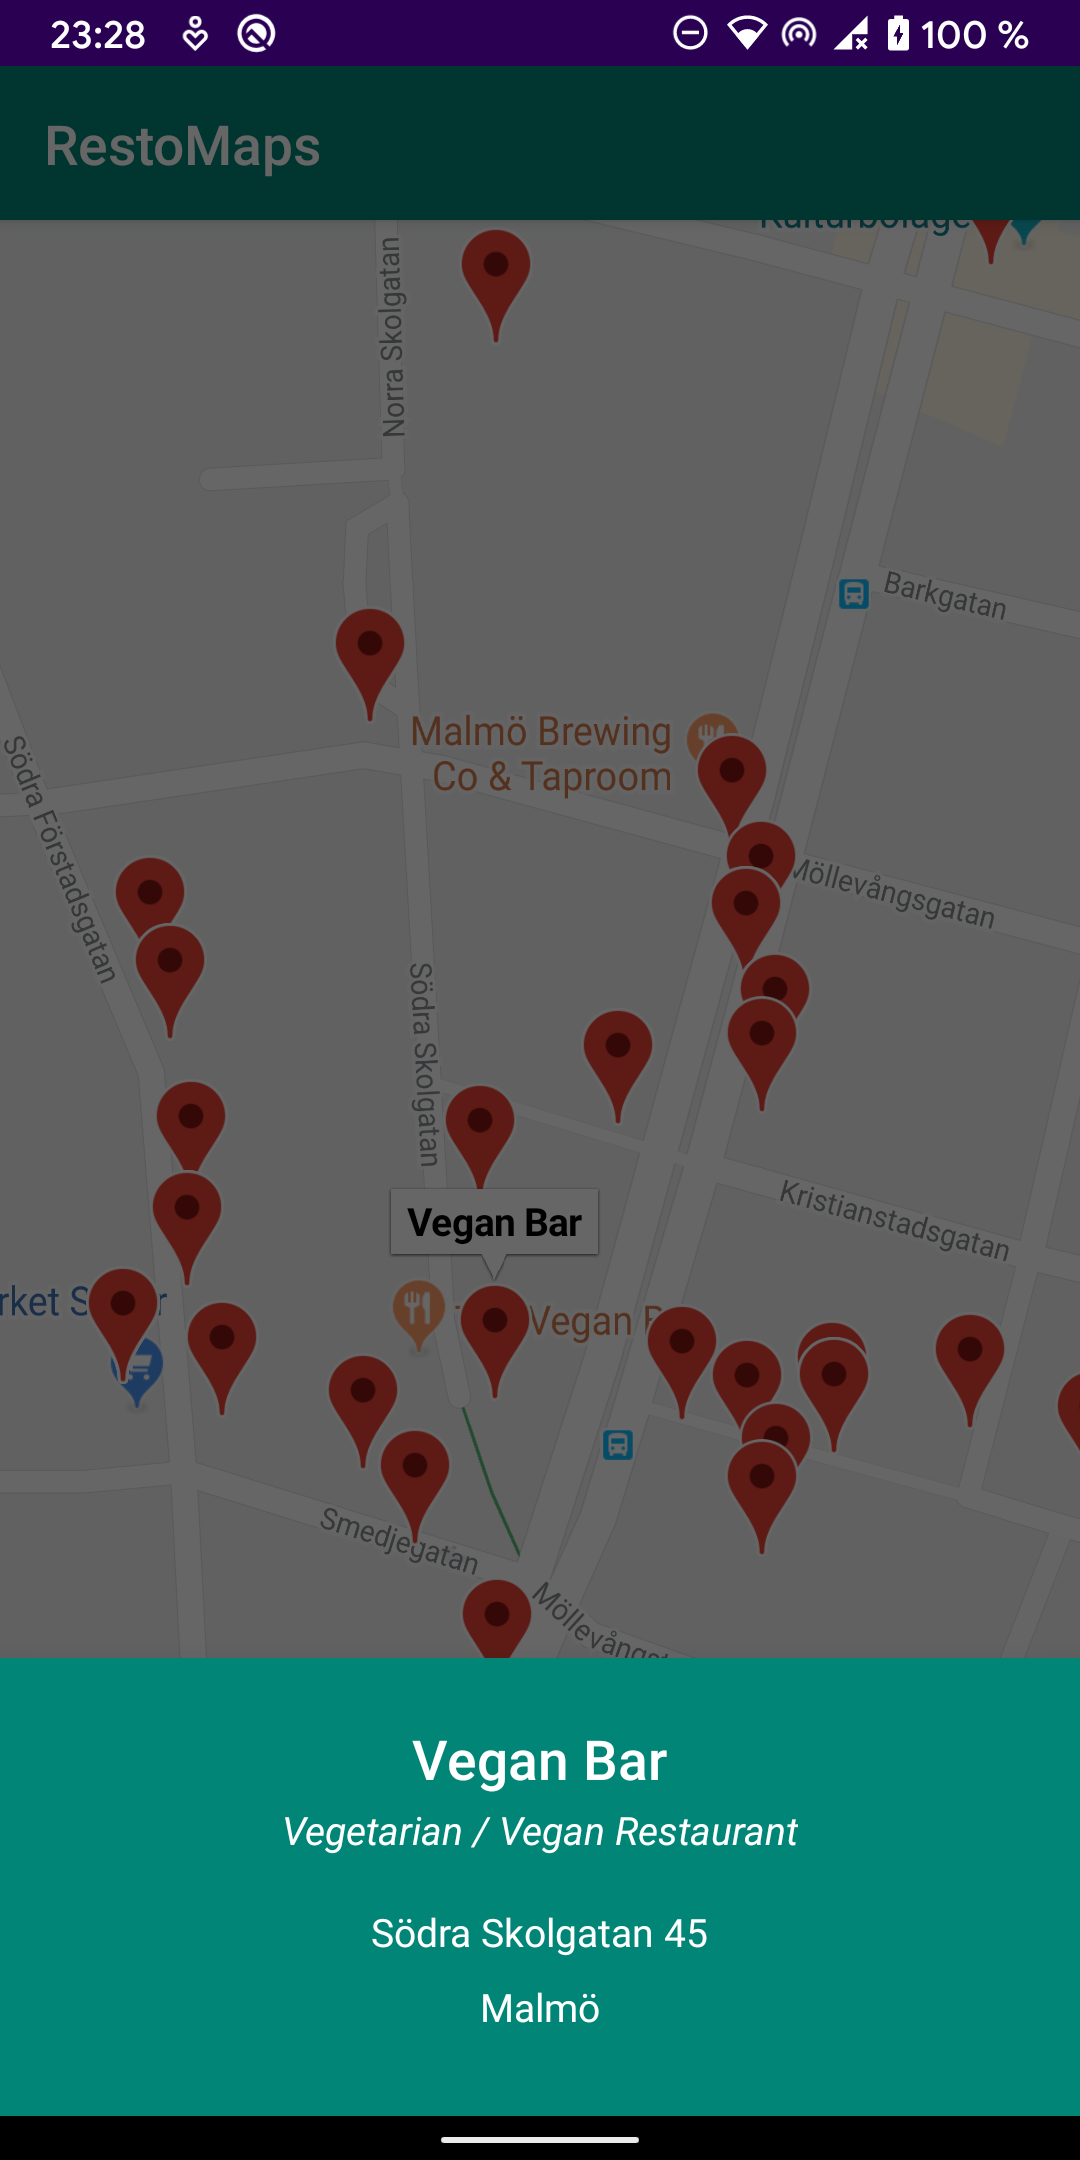
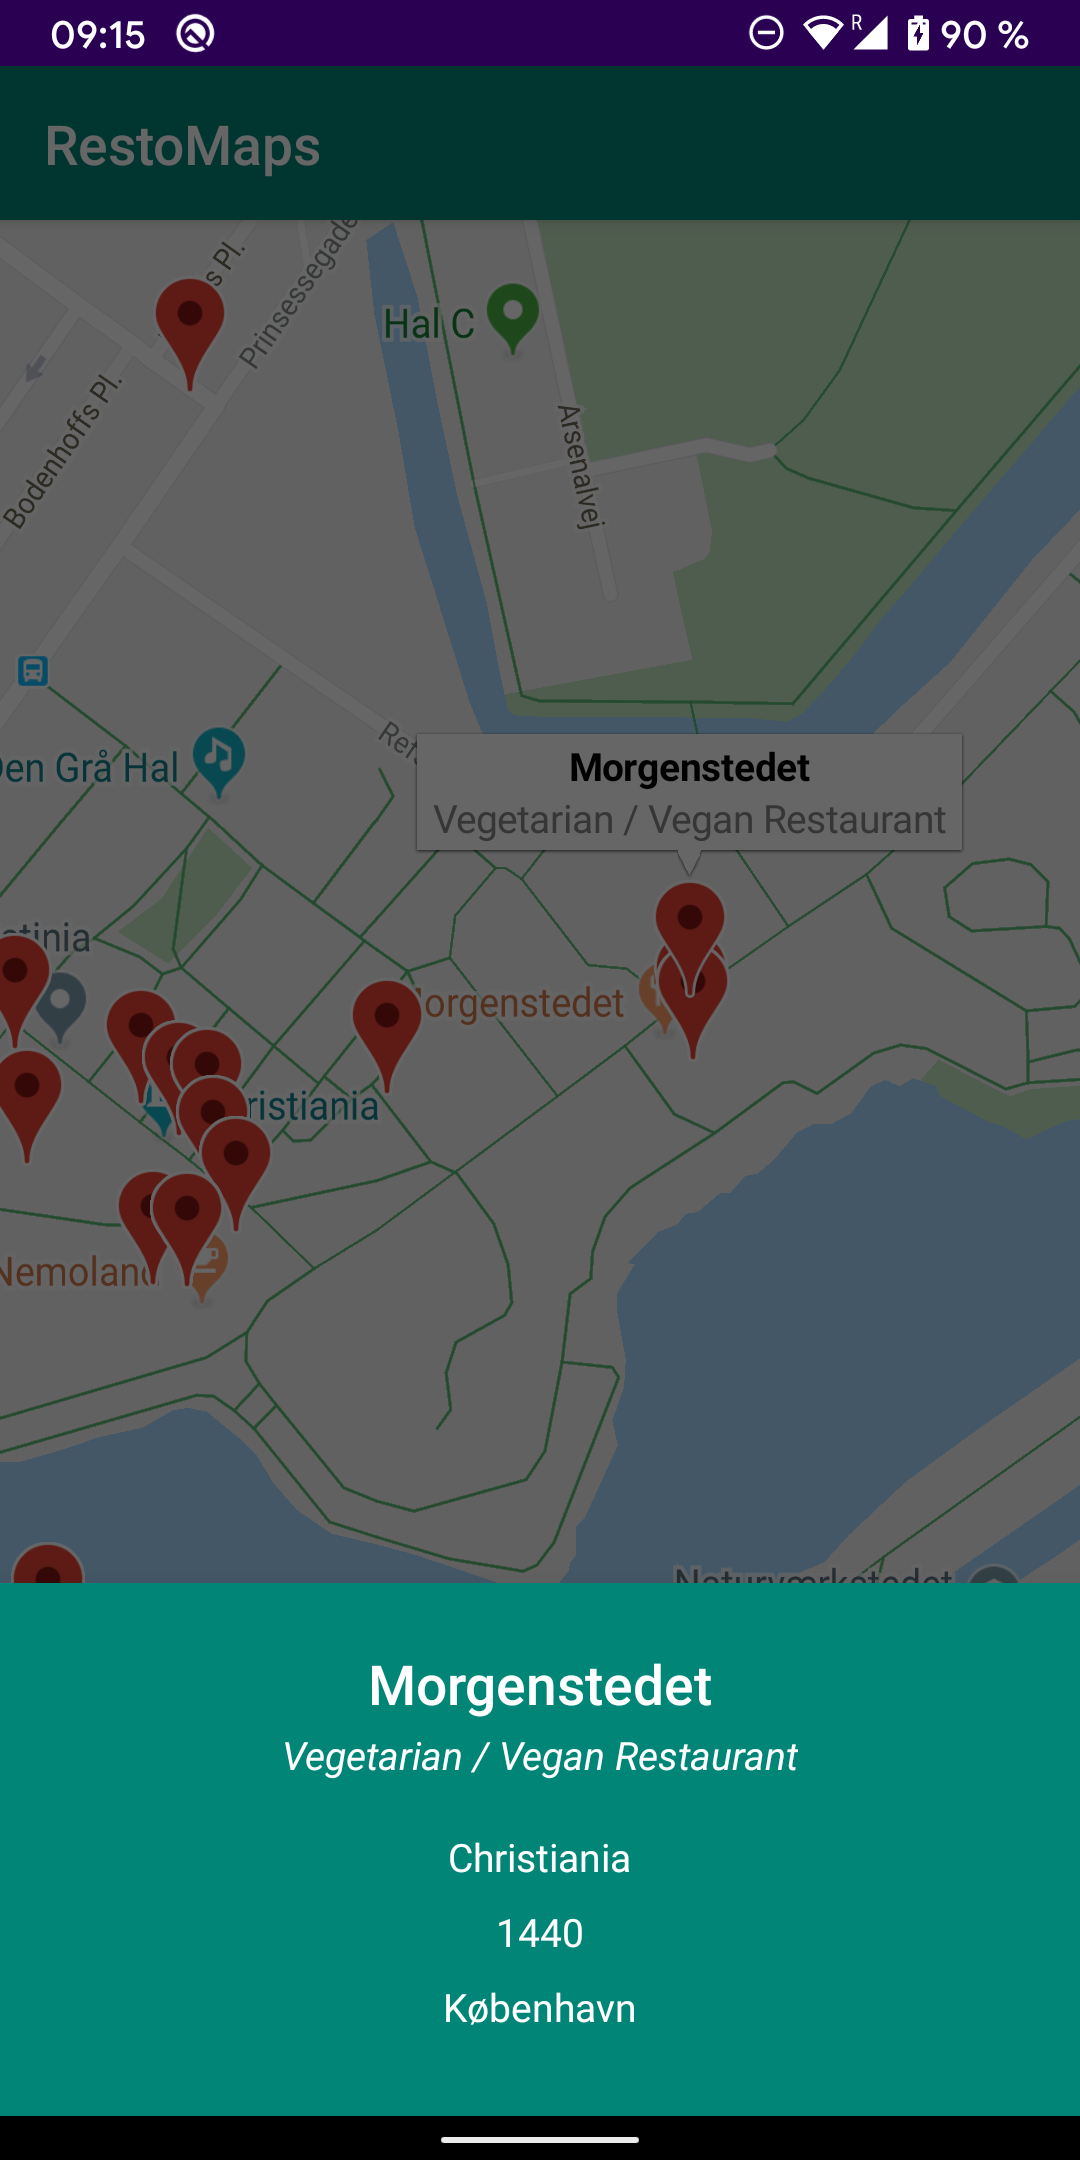
improve snippet

diff --git a/app/src/main/java/com/bempaaa/restomaps/viewmodels/RestoDetailsViewModel.kt b/app/src/main/java/com/bempaaa/restomaps/viewmodels/RestoDetailsViewModel.kt
@@ -1,6 +1,7 @@
 package com.bempaaa.restomaps.viewmodels
 
 import com.bempaaa.restomaps.data.RestoVenue
+import com.bempaaa.restomaps.data.toName
 
 data class RestoDetailsViewModel(
     val title: String,
@@ -14,7 +15,7 @@ data class RestoDetailsViewModel(
 
 internal fun RestoVenue.toRestoDetailsViewModel() = RestoDetailsViewModel(
     title = name,
-    category = categories.getOrNull(0)?.name,
+    category = categories.toName(),
     phone = contact?.phone,
     address = location.address,
     postalCode = location.postalCode,

diff --git a/app/src/main/java/com/bempaaa/restomaps/data/RestoLocation.kt b/app/src/main/java/com/bempaaa/restomaps/data/RestoLocation.kt
@@ -47,7 +47,9 @@ data class RestoLocation(
 internal fun List<RestoVenue>.toMarkers(): List<MarkerOptions> = map { it.toMarker() }
 
 private fun RestoVenue.toMarker(): MarkerOptions =
-    MarkerOptions().position(location.toLatLng()).title(name).snippet("tap to see more")
+    MarkerOptions().position(location.toLatLng()).title(name).snippet(categories.toName())
 
 private fun RestoLocation.toLatLng(): LatLng =
     LatLng(lat, lng)
+
+internal fun List<RestoCategory>.toName() = getOrNull(0)?.name
